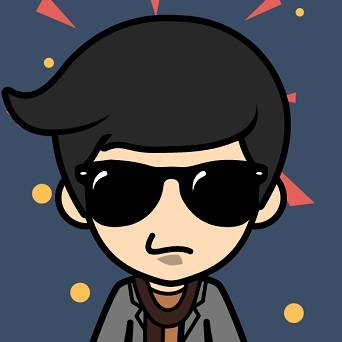
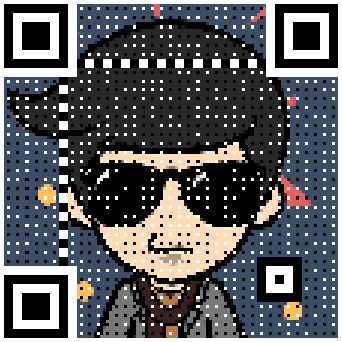
Site updated: 2018-07-12 12:05:10

diff --git a/index.html b/index.html
@@ -399,7 +399,7 @@
     <span hidden itemprop="author" itemscope itemtype="http://schema.org/Person">
       <meta itemprop="name" content="Trang">
       <meta itemprop="description" content="后端研发，喜欢造轮子，重度工具控">
-      <meta itemprop="image" content="/images/avatar.gif">
+      <meta itemprop="image" content="/images/avatar.png">
     </span>
 
     <span hidden itemprop="publisher" itemscope itemtype="http://schema.org/Organization">
@@ -571,7 +571,7 @@
     <span hidden itemprop="author" itemscope itemtype="http://schema.org/Person">
       <meta itemprop="name" content="Trang">
       <meta itemprop="description" content="后端研发，喜欢造轮子，重度工具控">
-      <meta itemprop="image" content="/images/avatar.gif">
+      <meta itemprop="image" content="/images/avatar.png">
     </span>
 
     <span hidden itemprop="publisher" itemscope itemtype="http://schema.org/Organization">
@@ -744,7 +744,7 @@
     <span hidden itemprop="author" itemscope itemtype="http://schema.org/Person">
       <meta itemprop="name" content="Trang">
       <meta itemprop="description" content="后端研发，喜欢造轮子，重度工具控">
-      <meta itemprop="image" content="/images/avatar.gif">
+      <meta itemprop="image" content="/images/avatar.png">
     </span>
 
     <span hidden itemprop="publisher" itemscope itemtype="http://schema.org/Organization">
@@ -912,7 +912,7 @@
     <span hidden itemprop="author" itemscope itemtype="http://schema.org/Person">
       <meta itemprop="name" content="Trang">
       <meta itemprop="description" content="后端研发，喜欢造轮子，重度工具控">
-      <meta itemprop="image" content="/images/avatar.gif">
+      <meta itemprop="image" content="/images/avatar.png">
     </span>
 
     <span hidden itemprop="publisher" itemscope itemtype="http://schema.org/Organization">
@@ -1080,7 +1080,7 @@
     <span hidden itemprop="author" itemscope itemtype="http://schema.org/Person">
       <meta itemprop="name" content="Trang">
       <meta itemprop="description" content="后端研发，喜欢造轮子，重度工具控">
-      <meta itemprop="image" content="/images/avatar.gif">
+      <meta itemprop="image" content="/images/avatar.png">
     </span>
 
     <span hidden itemprop="publisher" itemscope itemtype="http://schema.org/Organization">
@@ -1279,6 +1279,10 @@
       <section class="site-overview-wrap sidebar-panel sidebar-panel-active">
         <div class="site-overview">
           <div class="site-author motion-element" itemprop="author" itemscope itemtype="http://schema.org/Person">
+            
+              <img class="site-author-image" itemprop="image"
+                src="/images/avatar.png"
+                alt="Trang" />
             
               <p class="site-author-name" itemprop="name">Trang</p>
               <p class="site-description motion-element" itemprop="description">后端研发，喜欢造轮子，重度工具控</p>

diff --git a/page/2/index.html b/page/2/index.html
@@ -399,7 +399,7 @@
     <span hidden itemprop="author" itemscope itemtype="http://schema.org/Person">
       <meta itemprop="name" content="Trang">
       <meta itemprop="description" content="后端研发，喜欢造轮子，重度工具控">
-      <meta itemprop="image" content="/images/avatar.gif">
+      <meta itemprop="image" content="/images/avatar.png">
     </span>
 
     <span hidden itemprop="publisher" itemscope itemtype="http://schema.org/Organization">
@@ -583,7 +583,7 @@
     <span hidden itemprop="author" itemscope itemtype="http://schema.org/Person">
       <meta itemprop="name" content="Trang">
       <meta itemprop="description" content="后端研发，喜欢造轮子，重度工具控">
-      <meta itemprop="image" content="/images/avatar.gif">
+      <meta itemprop="image" content="/images/avatar.png">
     </span>
 
     <span hidden itemprop="publisher" itemscope itemtype="http://schema.org/Organization">
@@ -767,7 +767,7 @@
     <span hidden itemprop="author" itemscope itemtype="http://schema.org/Person">
       <meta itemprop="name" content="Trang">
       <meta itemprop="description" content="后端研发，喜欢造轮子，重度工具控">
-      <meta itemprop="image" content="/images/avatar.gif">
+      <meta itemprop="image" content="/images/avatar.png">
     </span>
 
     <span hidden itemprop="publisher" itemscope itemtype="http://schema.org/Organization">
@@ -950,6 +950,10 @@
       <section class="site-overview-wrap sidebar-panel sidebar-panel-active">
         <div class="site-overview">
           <div class="site-author motion-element" itemprop="author" itemscope itemtype="http://schema.org/Person">
+            
+              <img class="site-author-image" itemprop="image"
+                src="/images/avatar.png"
+                alt="Trang" />
             
               <p class="site-author-name" itemprop="name">Trang</p>
               <p class="site-description motion-element" itemprop="description">后端研发，喜欢造轮子，重度工具控</p>

diff --git a/2016/07/21/Guava 学习手册/index.html b/2016/07/21/Guava 学习手册/index.html
@@ -399,7 +399,7 @@
     <span hidden itemprop="author" itemscope itemtype="http://schema.org/Person">
       <meta itemprop="name" content="Trang">
       <meta itemprop="description" content="后端研发，喜欢造轮子，重度工具控">
-      <meta itemprop="image" content="/images/avatar.gif">
+      <meta itemprop="image" content="/images/avatar.png">
     </span>
 
     <span hidden itemprop="publisher" itemscope itemtype="http://schema.org/Organization">
@@ -1100,6 +1100,10 @@
       <section class="site-overview-wrap sidebar-panel">
         <div class="site-overview">
           <div class="site-author motion-element" itemprop="author" itemscope itemtype="http://schema.org/Person">
+            
+              <img class="site-author-image" itemprop="image"
+                src="/images/avatar.png"
+                alt="Trang" />
             
               <p class="site-author-name" itemprop="name">Trang</p>
               <p class="site-description motion-element" itemprop="description">后端研发，喜欢造轮子，重度工具控</p>

diff --git a/2017/03/21/Copiers/index.html b/2017/03/21/Copiers/index.html
@@ -399,7 +399,7 @@
     <span hidden itemprop="author" itemscope itemtype="http://schema.org/Person">
       <meta itemprop="name" content="Trang">
       <meta itemprop="description" content="后端研发，喜欢造轮子，重度工具控">
-      <meta itemprop="image" content="/images/avatar.gif">
+      <meta itemprop="image" content="/images/avatar.png">
     </span>
 
     <span hidden itemprop="publisher" itemscope itemtype="http://schema.org/Organization">
@@ -717,6 +717,10 @@
       <section class="site-overview-wrap sidebar-panel">
         <div class="site-overview">
           <div class="site-author motion-element" itemprop="author" itemscope itemtype="http://schema.org/Person">
+            
+              <img class="site-author-image" itemprop="image"
+                src="/images/avatar.png"
+                alt="Trang" />
             
               <p class="site-author-name" itemprop="name">Trang</p>
               <p class="site-description motion-element" itemprop="description">后端研发，喜欢造轮子，重度工具控</p>

diff --git a/2017/04/17/MyBatis Type Handlers for Encrypt/index.html b/2017/04/17/MyBatis Type Handlers for Encrypt/index.html
@@ -399,7 +399,7 @@
     <span hidden itemprop="author" itemscope itemtype="http://schema.org/Person">
       <meta itemprop="name" content="Trang">
       <meta itemprop="description" content="后端研发，喜欢造轮子，重度工具控">
-      <meta itemprop="image" content="/images/avatar.gif">
+      <meta itemprop="image" content="/images/avatar.png">
     </span>
 
     <span hidden itemprop="publisher" itemscope itemtype="http://schema.org/Organization">
@@ -706,6 +706,10 @@
       <section class="site-overview-wrap sidebar-panel">
         <div class="site-overview">
           <div class="site-author motion-element" itemprop="author" itemscope itemtype="http://schema.org/Person">
+            
+              <img class="site-author-image" itemprop="image"
+                src="/images/avatar.png"
+                alt="Trang" />
             
               <p class="site-author-name" itemprop="name">Trang</p>
               <p class="site-description motion-element" itemprop="description">后端研发，喜欢造轮子，重度工具控</p>

diff --git a/2017/04/17/应用层读写分离的改进/index.html b/2017/04/17/应用层读写分离的改进/index.html
@@ -399,7 +399,7 @@
     <span hidden itemprop="author" itemscope itemtype="http://schema.org/Person">
       <meta itemprop="name" content="Trang">
       <meta itemprop="description" content="后端研发，喜欢造轮子，重度工具控">
-      <meta itemprop="image" content="/images/avatar.gif">
+      <meta itemprop="image" content="/images/avatar.png">
     </span>
 
     <span hidden itemprop="publisher" itemscope itemtype="http://schema.org/Organization">
@@ -804,6 +804,10 @@
       <section class="site-overview-wrap sidebar-panel">
         <div class="site-overview">
           <div class="site-author motion-element" itemprop="author" itemscope itemtype="http://schema.org/Person">
+            
+              <img class="site-author-image" itemprop="image"
+                src="/images/avatar.png"
+                alt="Trang" />
             
               <p class="site-author-name" itemprop="name">Trang</p>
               <p class="site-description motion-element" itemprop="description">后端研发，喜欢造轮子，重度工具控</p>

diff --git a/2017/07/13/Druid Spring Boot Starter/index.html b/2017/07/13/Druid Spring Boot Starter/index.html
@@ -403,7 +403,7 @@
     <span hidden itemprop="author" itemscope itemtype="http://schema.org/Person">
       <meta itemprop="name" content="Trang">
       <meta itemprop="description" content="后端研发，喜欢造轮子，重度工具控">
-      <meta itemprop="image" content="/images/avatar.gif">
+      <meta itemprop="image" content="/images/avatar.png">
     </span>
 
     <span hidden itemprop="publisher" itemscope itemtype="http://schema.org/Organization">
@@ -693,6 +693,10 @@
       <section class="site-overview-wrap sidebar-panel">
         <div class="site-overview">
           <div class="site-author motion-element" itemprop="author" itemscope itemtype="http://schema.org/Person">
+            
+              <img class="site-author-image" itemprop="image"
+                src="/images/avatar.png"
+                alt="Trang" />
             
               <p class="site-author-name" itemprop="name">Trang</p>
               <p class="site-description motion-element" itemprop="description">后端研发，喜欢造轮子，重度工具控</p>

diff --git a/2017/08/11/Spring Boot 的 Maven 项目原型/index.html b/2017/08/11/Spring Boot 的 Maven 项目原型/index.html
@@ -399,7 +399,7 @@
     <span hidden itemprop="author" itemscope itemtype="http://schema.org/Person">
       <meta itemprop="name" content="Trang">
       <meta itemprop="description" content="后端研发，喜欢造轮子，重度工具控">
-      <meta itemprop="image" content="/images/avatar.gif">
+      <meta itemprop="image" content="/images/avatar.png">
     </span>
 
     <span hidden itemprop="publisher" itemscope itemtype="http://schema.org/Organization">
@@ -679,6 +679,10 @@
       <section class="site-overview-wrap sidebar-panel">
         <div class="site-overview">
           <div class="site-author motion-element" itemprop="author" itemscope itemtype="http://schema.org/Person">
+            
+              <img class="site-author-image" itemprop="image"
+                src="/images/avatar.png"
+                alt="Trang" />
             
               <p class="site-author-name" itemprop="name">Trang</p>
               <p class="site-description motion-element" itemprop="description">后端研发，喜欢造轮子，重度工具控</p>

diff --git a/2018/02/26/Druid 中 SQL 格式化的 BUG/index.html b/2018/02/26/Druid 中 SQL 格式化的 BUG/index.html
@@ -399,7 +399,7 @@
     <span hidden itemprop="author" itemscope itemtype="http://schema.org/Person">
       <meta itemprop="name" content="Trang">
       <meta itemprop="description" content="后端研发，喜欢造轮子，重度工具控">
-      <meta itemprop="image" content="/images/avatar.gif">
+      <meta itemprop="image" content="/images/avatar.png">
     </span>
 
     <span hidden itemprop="publisher" itemscope itemtype="http://schema.org/Organization">
@@ -671,6 +671,10 @@
       <section class="site-overview-wrap sidebar-panel">
         <div class="site-overview">
           <div class="site-author motion-element" itemprop="author" itemscope itemtype="http://schema.org/Person">
+            
+              <img class="site-author-image" itemprop="image"
+                src="/images/avatar.png"
+                alt="Trang" />
             
               <p class="site-author-name" itemprop="name">Trang</p>
               <p class="site-description motion-element" itemprop="description">后端研发，喜欢造轮子，重度工具控</p>

diff --git a/2018/02/26/禁止 MyBatis 打印 SQL 的功能/index.html b/2018/02/26/禁止 MyBatis 打印 SQL 的功能/index.html
@@ -404,7 +404,7 @@
     <span hidden itemprop="author" itemscope itemtype="http://schema.org/Person">
       <meta itemprop="name" content="Trang">
       <meta itemprop="description" content="后端研发，喜欢造轮子，重度工具控">
-      <meta itemprop="image" content="/images/avatar.gif">
+      <meta itemprop="image" content="/images/avatar.png">
     </span>
 
     <span hidden itemprop="publisher" itemscope itemtype="http://schema.org/Organization">
@@ -689,6 +689,10 @@
       <section class="site-overview-wrap sidebar-panel">
         <div class="site-overview">
           <div class="site-author motion-element" itemprop="author" itemscope itemtype="http://schema.org/Person">
+            
+              <img class="site-author-image" itemprop="image"
+                src="/images/avatar.png"
+                alt="Trang" />
             
               <p class="site-author-name" itemprop="name">Trang</p>
               <p class="site-description motion-element" itemprop="description">后端研发，喜欢造轮子，重度工具控</p>

diff --git a/404.html b/404.html
@@ -488,6 +488,10 @@
         <div class="site-overview">
           <div class="site-author motion-element" itemprop="author" itemscope itemtype="http://schema.org/Person">
             
+              <img class="site-author-image" itemprop="image"
+                src="/images/avatar.png"
+                alt="Trang" />
+            
               <p class="site-author-name" itemprop="name">Trang</p>
               <p class="site-description motion-element" itemprop="description">后端研发，喜欢造轮子，重度工具控</p>
           </div>

diff --git a/about/index.html b/about/index.html
@@ -466,6 +466,10 @@
         <div class="site-overview">
           <div class="site-author motion-element" itemprop="author" itemscope itemtype="http://schema.org/Person">
             
+              <img class="site-author-image" itemprop="image"
+                src="/images/avatar.png"
+                alt="Trang" />
+            
               <p class="site-author-name" itemprop="name">Trang</p>
               <p class="site-description motion-element" itemprop="description">后端研发，喜欢造轮子，重度工具控</p>
           </div>
